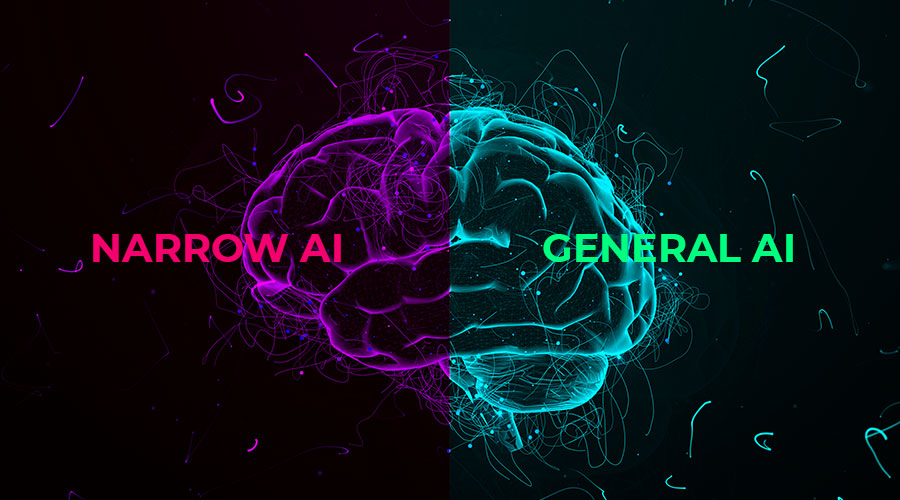
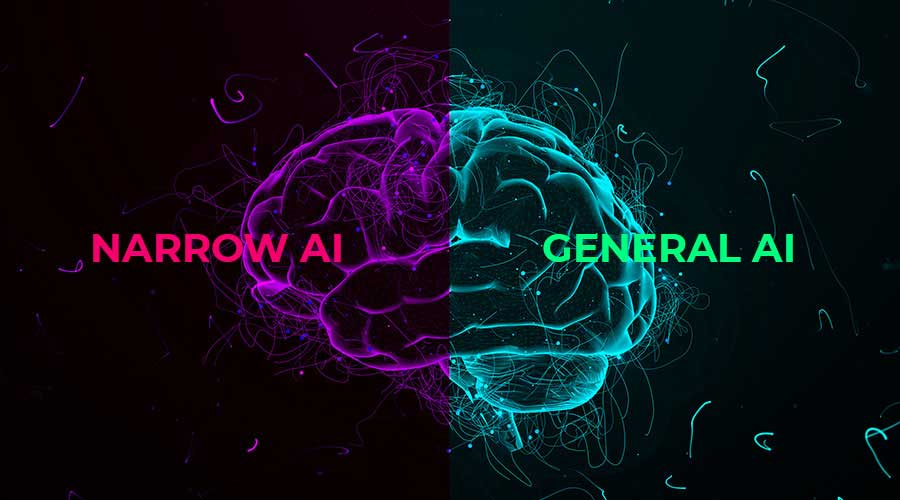
final edit

diff --git a/pages/types-of-ai.html b/pages/types-of-ai.html
@@ -189,6 +189,9 @@
                 born. Containing or creating a super intelligence is something that we as a human race are far from,
                 making it an entry for sci-fi novels. For now.</p>
         </div>
+        <div>
+            <img src="../images/Super-AI.jpg" class="newimg" alt="super ai photo">
+        </div>
         <div class="content">
             <h1 id="Theory-of-mind-ai">Theory of Mind in Artificial Intelligence</h1>
             <p>In psychology, the theory of mind is the ability to connect what one is feeling to the reality that they

diff --git a/pages/what-is-ai.html b/pages/what-is-ai.html
@@ -196,7 +196,7 @@
                 Moore’s Law.</p>
         </div>
         <siv>
-            <img src="../images/imgai1.png" class="newimg" alt="ai">
+            <img src="../images/imgai1.jpg" class="newimg" alt="ai">
         </siv>
         <div class="content">
             <h2 id="AI-future">The Future</h2>
